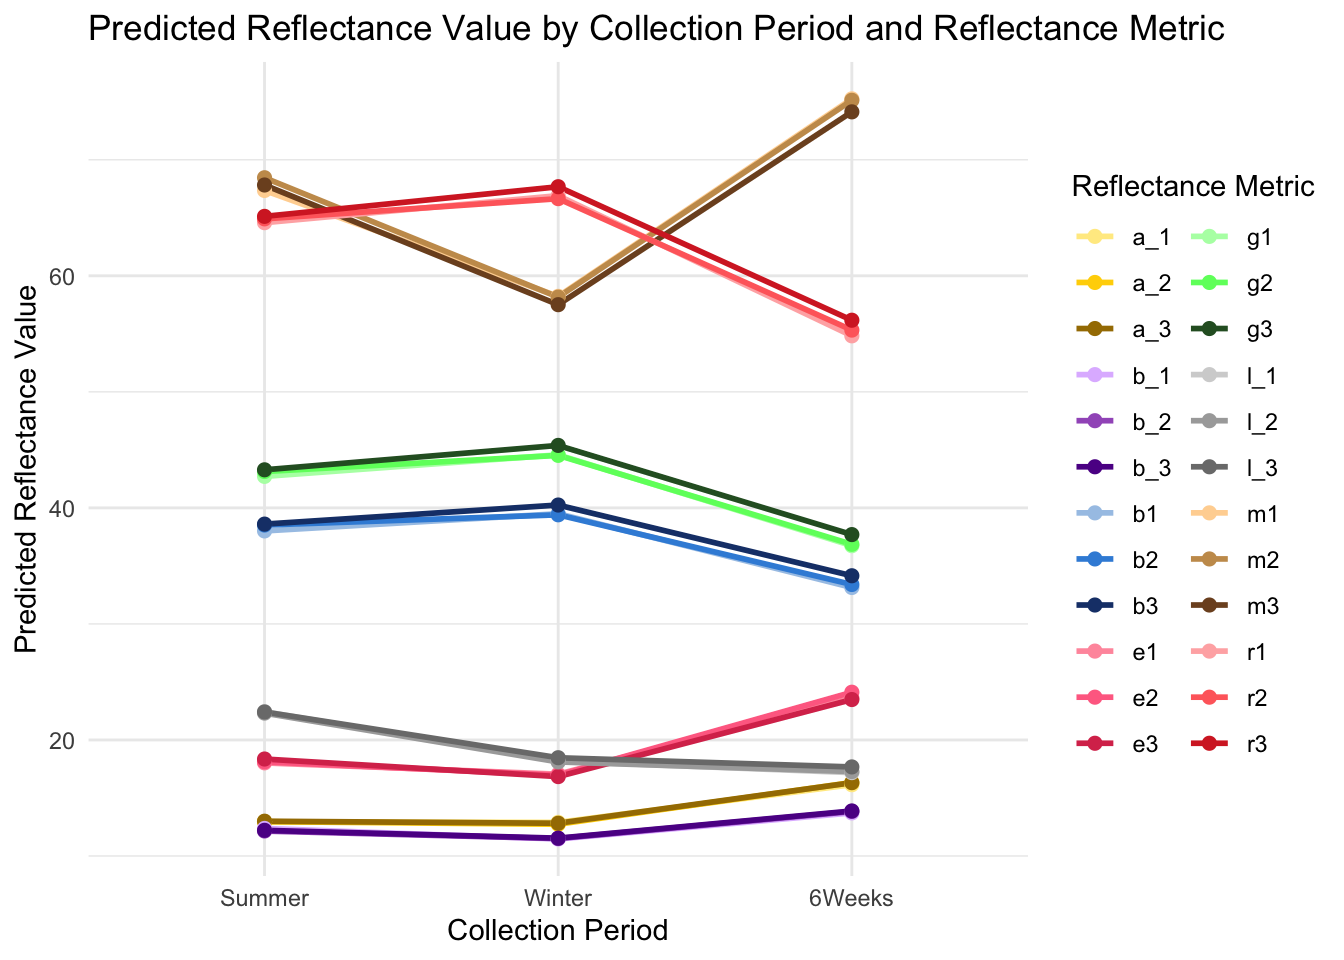
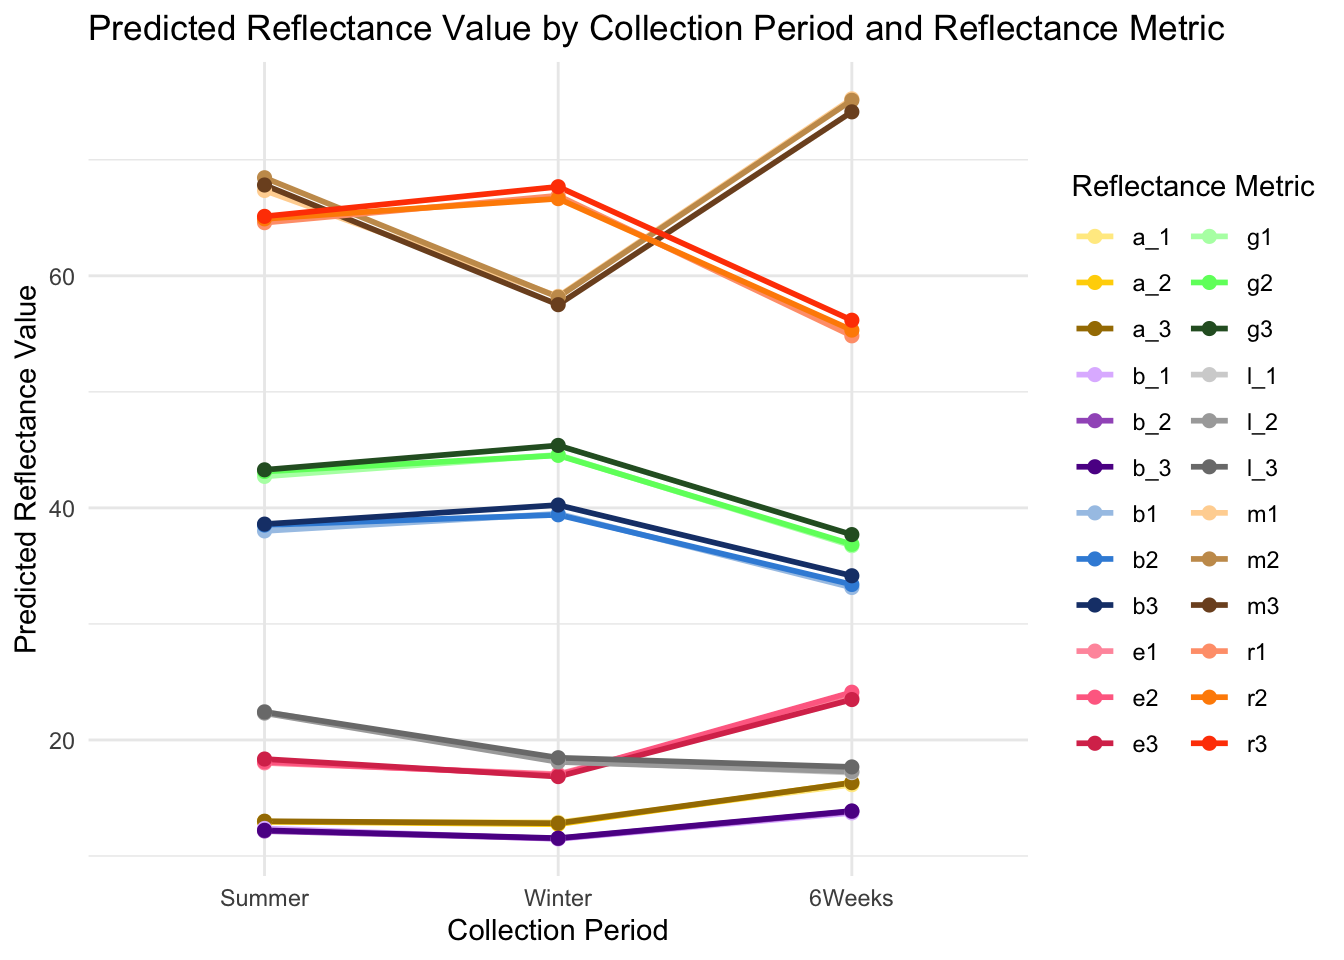
changed colors to make mor visible

Changed region(s): [[0.1875, 0.1875, 0.6562, 0.375], [0.875, 0.7188, 0.9062, 0.7812], [0.875, 0.6562, 0.9062, 0.6875]]

diff --git a/docs/data_modeling_1.html b/docs/data_modeling_1.html
@@ -516,15 +516,15 @@ project makes it easier to run your code on other machines.</p>
 <div class="panel panel-default">
 <div class="panel-heading">
 <p class="panel-title">
-<a data-toggle="collapse" data-parent="#workflowr-checks" href="#strongRepositoryversionstrongahrefhttpsgithubcomlasisilabSAPPHIREtreebcfeb369ba85aa9447e36dda202f5f16c5d414b9targetblankbcfeb36a">
+<a data-toggle="collapse" data-parent="#workflowr-checks" href="#strongRepositoryversionstrongahrefhttpsgithubcomlasisilabSAPPHIREtree2f349620b54eee0b53775f3d8bb2fb9847bce1betargetblank2f34962a">
 <span class="glyphicon glyphicon-ok text-success"
 aria-hidden="true"></span> <strong>Repository version:</strong>
-<a href="https://github.com/lasisilab/SAPPHIRE/tree/bcfeb369ba85aa9447e36dda202f5f16c5d414b9" target="_blank">bcfeb36</a>
+<a href="https://github.com/lasisilab/SAPPHIRE/tree/2f349620b54eee0b53775f3d8bb2fb9847bce1be" target="_blank">2f34962</a>
 </a>
 </p>
 </div>
 <div
[2 lines of base64/hex data omitted]
 class="panel-collapse collapse">
 <div class="panel-body">
 <p>
@@ -534,7 +534,7 @@ reproducibility.
 </p>
 <p>
 The results in this page were generated with repository version
-<a href="https://github.com/lasisilab/SAPPHIRE/tree/bcfeb369ba85aa9447e36dda202f5f16c5d414b9" target="_blank">bcfeb36</a>.
+<a href="https://github.com/lasisilab/SAPPHIRE/tree/2f349620b54eee0b53775f3d8bb2fb9847bce1be" target="_blank">2f34962</a>.
 See the <em>Past versions</em> tab to see a history of the changes made
 to the R Markdown and HTML files.
 </p>
@@ -602,6 +602,40 @@ Message
 </tr>
 </thead>
 <tbody>
+<tr>
+<td>
+Rmd
+</td>
+<td>
+<a href="https://github.com/lasisilab/SAPPHIRE/blob/2f349620b54eee0b53775f3d8bb2fb9847bce1be/analysis/data_modeling_1.Rmd" target="_blank">2f34962</a>
+</td>
+<td>
+calliquire
+</td>
+<td>
+2024-10-07
+</td>
+<td>
+added print(p) to workflowr
+</td>
+</tr>
+<tr>
+<td>
+html
+</td>
+<td>
+<a href="https://rawcdn.githack.com/lasisilab/SAPPHIRE/2f349620b54eee0b53775f3d8bb2fb9847bce1be/docs/data_modeling_1.html" target="_blank">2f34962</a>
+</td>
+<td>
+calliquire
+</td>
+<td>
+2024-10-07
+</td>
+<td>
+added print(p) to workflowr
+</td>
+</tr>
 <tr>
 <td>
 Rmd
@@ -1040,9 +1074,9 @@ color_palette &lt;- c(
   &quot;m1&quot; = &quot;#FFD5A1&quot;,   # Light Tan
   &quot;m2&quot; = &quot;#C89A5B&quot;,   # Tan
   &quot;m3&quot; = &quot;#7D4F26&quot;,   # Dark Brown
-  &quot;r1&quot; = &quot;#FFB2B2&quot;,   # Light Coral
-  &quot;r2&quot; = &quot;#FF6B6B&quot;,   # Red
-  &quot;r3&quot; = &quot;#D52B2B&quot;,   # Dark Red
+  &quot;r1&quot; = &quot;#FFA07A&quot;,   # Light Orange
+  &quot;r2&quot; = &quot;#FF8C00&quot;,   # Medium Orange
+  &quot;r3&quot; = &quot;#FF4500&quot;,   # Dark Orange
   &quot;g1&quot; = &quot;#B2FFB2&quot;,   # Light Green
   &quot;g2&quot; = &quot;#6BFF6B&quot;,   # Green
   &quot;g3&quot; = &quot;#2B5D2B&quot;,   # Dark Green
@@ -1075,6 +1109,43 @@ Call `lifecycle::last_lifecycle_warnings()` to see where this warning was
 generated.</code></pre>
 <pre class="r"><code>print(p)</code></pre>
 <p><img src="figure/data_modeling_1.Rmd/unnamed-chunk-6-1.png" width="672" style="display: block; margin: auto;" /></p>
+<p>
+<button type="button" class="btn btn-default btn-xs btn-workflowr btn-workflowr-fig" data-toggle="collapse" data-target="#fig-unnamed-chunk-6-1">
+Past versions of unnamed-chunk-6-1.png
+</button>
+</p>
+<div id="fig-unnamed-chunk-6-1" class="collapse">
+<div class="table-responsive">
+<table class="table table-condensed table-hover">
+<thead>
+<tr>
+<th>
+Version
+</th>
+<th>
+Author
+</th>
+<th>
+Date
+</th>
+</tr>
+</thead>
+<tbody>
+<tr>
+<td>
+<a href="https://github.com/lasisilab/SAPPHIRE/blob/2f349620b54eee0b53775f3d8bb2fb9847bce1be/docs/figure/data_modeling_1.Rmd/unnamed-chunk-6-1.png" target="_blank">2f34962</a>
+</td>
+<td>
+calliquire
+</td>
+<td>
+2024-10-07
+</td>
+</tr>
+</tbody>
+</table>
+</div>
+</div>
 <ol start="6" style="list-style-type: decimal">
 <li>Save the plot as a .pdf.</li>
 </ol>
